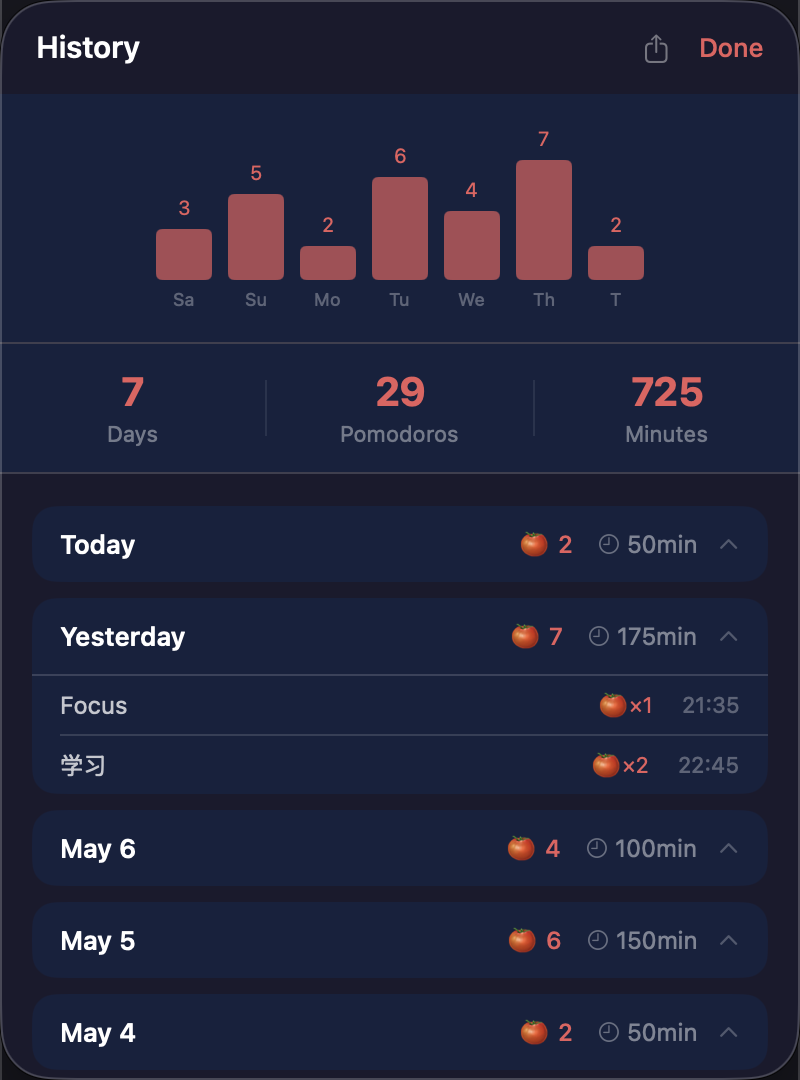
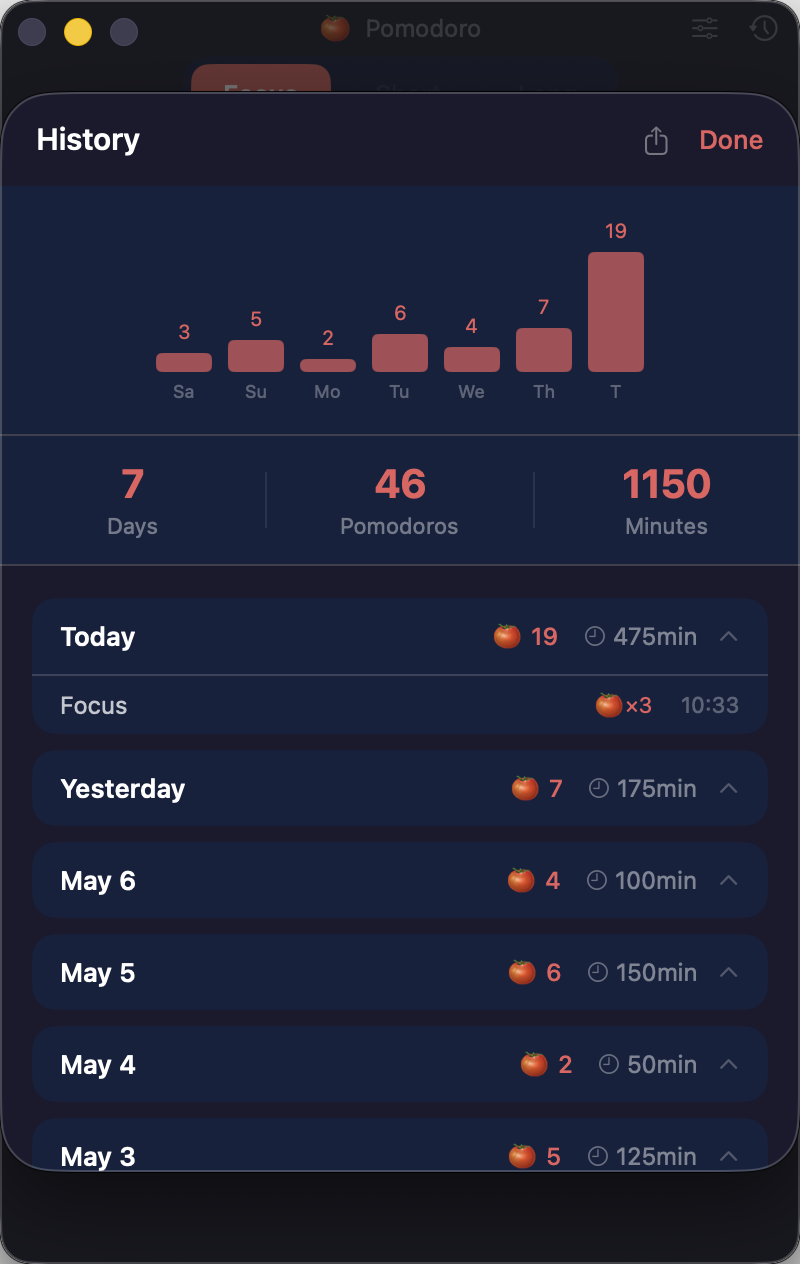
Redesign Settings UI, add single-shortcut DND integration, update docs
- Settings: grouped TIMER/PREFERENCES sections, more compact layout (380×500),
  Install Shortcuts styled as pill button
- DND: merge 3 shortcuts into one via file-based IPC (/tmp/pomo_dnd_action)
- README: add DND setup section, update features list and tech stack
- Screenshots: refresh all three with new Settings UI

diff --git a/Sources/PomodoroApp/SettingsView.swift b/Sources/PomodoroApp/SettingsView.swift
@@ -10,26 +10,39 @@ struct SettingsView: View {
             VStack(spacing: 0) {
                 header
                 Divider().background(Color.white.opacity(0.07))
-                VStack(spacing: 10) {
-                    durationRow(label: vm.s_workDuration,  icon: "🍅",
-                                value: $vm.workMins,  range: 1...90)
-                    durationRow(label: vm.s_shortDuration, icon: "☕",
-                                value: $vm.shortMins, range: 1...30)
-                    durationRow(label: vm.s_longDuration,  icon: "🌿",
-                                value: $vm.longMins,  range: 1...60)
-                    languageRow
-                    autoStartRow
-                    clearTaskRow
-                    soundRow
-                    dndRow
+                ScrollView(showsIndicators: false) {
+                    VStack(alignment: .leading, spacing: 20) {
+                        section(title: vm.s_sectionTimer) {
+                            durationRow(label: vm.s_workDuration,  icon: "🍅",
+                                        value: $vm.workMins,  range: 1...90)
+                            rowDivider
+                            durationRow(label: vm.s_shortDuration, icon: "☕",
+                                        value: $vm.shortMins, range: 1...30)
+                            rowDivider
+                            durationRow(label: vm.s_longDuration,  icon: "🌿",
+                                        value: $vm.longMins,  range: 1...60)
+                        }
+                        section(title: vm.s_sectionPrefs) {
+                            languageRow
+                            rowDivider
+                            toggleRow(icon: "⏭", label: vm.s_autoStart,    binding: $vm.autoStart)
+                            rowDivider
+                            toggleRow(icon: "✅", label: vm.s_clearTask,    binding: $vm.clearTaskOnComplete)
+                            rowDivider
+                            toggleRow(icon: "🔔", label: vm.s_sound,        binding: $vm.soundEnabled)
+                            rowDivider
+                            dndRow
+                        }
+                    }
+                    .padding(16)
                 }
-                .padding(16)
-                Spacer()
             }
         }
         .preferredColorScheme(.dark)
-        .frame(width: 400, height: 530)
+        .frame(width: 380, height: 500)
     }
+
+    // MARK: - Header
 
     private var header: some View {
         HStack {
@@ -43,13 +56,37 @@ struct SettingsView: View {
                 .foregroundColor(.workAccent)
         }
         .padding(.horizontal, 18)
-        .padding(.vertical, 14)
+        .padding(.vertical, 12)
     }
+
+    // MARK: - Section wrapper
+
+    private func section<Content: View>(title: String, @ViewBuilder content: () -> Content) -> some View {
+        VStack(alignment: .leading, spacing: 0) {
+            Text(title)
+                .font(.system(size: 10, weight: .semibold))
+                .foregroundColor(.white.opacity(0.3))
+                .padding(.horizontal, 4)
+                .padding(.bottom, 6)
+            VStack(spacing: 0) {
+                content()
+            }
+            .background(Color.appCard.cornerRadius(12))
+        }
+    }
+
+    private var rowDivider: some View {
+        Divider()
+            .background(Color.white.opacity(0.06))
+            .padding(.leading, 40)
+    }
+
+    // MARK: - Row types
 
     private func durationRow(label: String, icon: String,
                               value: Binding<Int>, range: ClosedRange<Int>) -> some View {
         HStack {
-            Text(icon).font(.system(size: 15))
+            Text(icon).font(.system(size: 14)).frame(width: 24)
             Text(label)
                 .font(.system(size: 13))
                 .foregroundColor(.white.opacity(0.85))
@@ -59,23 +96,38 @@ struct SettingsView: View {
                     if value.wrappedValue > range.lowerBound { value.wrappedValue -= 1 }
                 }
                 Text("\(value.wrappedValue) \(vm.s_minutes)")
-                    .font(.system(size: 13, weight: .medium))
+                    .font(.system(size: 12, weight: .medium))
                     .foregroundColor(.white)
-                    .frame(width: 68)
+                    .frame(width: 58)
                 stepButton(icon: "plus") {
                     if value.wrappedValue < range.upperBound { value.wrappedValue += 1 }
                 }
             }
-            .background(Color.appCard.cornerRadius(9))
+            .background(Color.white.opacity(0.07).cornerRadius(8))
         }
         .padding(.horizontal, 14)
-        .padding(.vertical, 10)
-        .background(Color.appCard.opacity(0.5).cornerRadius(10))
+        .padding(.vertical, 9)
+    }
+
+    private func toggleRow(icon: String, label: String, binding: Binding<Bool>) -> some View {
+        HStack {
+            Text(icon).font(.system(size: 14)).frame(width: 24)
+            Text(label)
+                .font(.system(size: 13))
+                .foregroundColor(.white.opacity(0.85))
+            Spacer()
+            Toggle("", isOn: binding)
+                .toggleStyle(.switch)
+                .labelsHidden()
+                .scaleEffect(0.85)
+        }
+        .padding(.horizontal, 14)
+        .padding(.vertical, 9)
     }
 
     private var languageRow: some View {
         HStack {
-            Text("🌐").font(.system(size: 15))
+            Text("🌐").font(.system(size: 14)).frame(width: 24)
             Text(vm.s_language)
                 .font(.system(size: 13))
                 .foregroundColor(.white.opacity(0.85))
@@ -86,65 +138,16 @@ struct SettingsView: View {
                 }
             }
             .pickerStyle(.segmented)
-            .frame(width: 130)
+            .frame(width: 120)
         }
         .padding(.horizontal, 14)
-        .padding(.vertical, 10)
-        .background(Color.appCard.opacity(0.5).cornerRadius(10))
-    }
-
-    private var autoStartRow: some View {
-        HStack {
-            Text("⏭").font(.system(size: 15))
-            Text(vm.s_autoStart)
-                .font(.system(size: 13))
-                .foregroundColor(.white.opacity(0.85))
-            Spacer()
-            Toggle("", isOn: $vm.autoStart)
-                .toggleStyle(.switch)
-                .labelsHidden()
-        }
-        .padding(.horizontal, 14)
-        .padding(.vertical, 10)
-        .background(Color.appCard.opacity(0.5).cornerRadius(10))
-    }
-
-    private var clearTaskRow: some View {
-        HStack {
-            Text("✅").font(.system(size: 15))
-            Text(vm.s_clearTask)
-                .font(.system(size: 13))
-                .foregroundColor(.white.opacity(0.85))
-            Spacer()
-            Toggle("", isOn: $vm.clearTaskOnComplete)
-                .toggleStyle(.switch)
-                .labelsHidden()
-        }
-        .padding(.horizontal, 14)
-        .padding(.vertical, 10)
-        .background(Color.appCard.opacity(0.5).cornerRadius(10))
-    }
-
-    private var soundRow: some View {
-        HStack {
-            Text("🔔").font(.system(size: 15))
-            Text(vm.s_sound)
-                .font(.system(size: 13))
-                .foregroundColor(.white.opacity(0.85))
-            Spacer()
-            Toggle("", isOn: $vm.soundEnabled)
-                .toggleStyle(.switch)
-                .labelsHidden()
-        }
-        .padding(.horizontal, 14)
-        .padding(.vertical, 10)
-        .background(Color.appCard.opacity(0.5).cornerRadius(10))
+        .padding(.vertical, 9)
     }
 
     private var dndRow: some View {
-        VStack(alignment: .leading, spacing: 6) {
+        VStack(alignment: .leading, spacing: 0) {
             HStack {
-                Text("🌙").font(.system(size: 15))
+                Text("🌙").font(.system(size: 14)).frame(width: 24)
                 Text(vm.s_dndIntegration)
                     .font(.system(size: 13))
                     .foregroundColor(.white.opacity(0.85))
@@ -152,26 +155,39 @@ struct SettingsView: View {
                 Toggle("", isOn: $vm.dndIntegrationEnabled)
                     .toggleStyle(.switch)
                     .labelsHidden()
+                    .scaleEffect(0.85)
             }
+            .padding(.horizontal, 14)
+            .padding(.vertical, 9)
+
             if vm.dndIntegrationEnabled {
-                Text(vm.s_dndSetup)
-                    .font(.system(size: 10))
-                    .foregroundColor(.white.opacity(0.35))
-                    .fixedSize(horizontal: false, vertical: true)
+                HStack(spacing: 10) {
+                    Button(vm.s_dndInstall) { vm.installDNDShortcuts() }
+                        .buttonStyle(.plain)
+                        .font(.system(size: 11, weight: .medium))
+                        .foregroundColor(.workAccent)
+                        .padding(.horizontal, 9)
+                        .padding(.vertical, 4)
+                        .background(Color.workAccent.opacity(0.12).cornerRadius(6))
+                        .overlay(RoundedRectangle(cornerRadius: 6)
+                            .stroke(Color.workAccent.opacity(0.3), lineWidth: 0.5))
+                    Text(vm.s_dndInstallHint)
+                        .font(.system(size: 10))
+                        .foregroundColor(.white.opacity(0.3))
+                }
+                .padding(.horizontal, 14)
+                .padding(.bottom, 10)
             }
         }
-        .padding(.horizontal, 14)
-        .padding(.vertical, 10)
-        .background(Color.appCard.opacity(0.5).cornerRadius(10))
         .animation(.easeInOut(duration: 0.2), value: vm.dndIntegrationEnabled)
     }
 
     private func stepButton(icon: String, action: @escaping () -> Void) -> some View {
         Button(action: action) {
             Image(systemName: icon)
-                .font(.system(size: 12, weight: .semibold))
-                .foregroundColor(.white.opacity(0.6))
-                .frame(width: 30, height: 30)
+                .font(.system(size: 11, weight: .semibold))
+                .foregroundColor(.white.opacity(0.55))
+                .frame(width: 28, height: 28)
         }
         .buttonStyle(.plain)
     }

diff --git a/Sources/PomodoroApp/TimerViewModel.swift b/Sources/PomodoroApp/TimerViewModel.swift
@@ -176,11 +176,16 @@ class TimerViewModel: ObservableObject {
     var s_clearConfirm:    String { zh("确认清空今日记录？", en: "Clear all today's records?") }
     var s_clearTask:       String { zh("完成后清空任务",   en: "Clear task on complete") }
     var s_sound:           String { zh("声音提示",        en: "Sound") }
+    var s_sectionTimer:    String { zh("时长",            en: "TIMER") }
+    var s_sectionPrefs:    String { zh("偏好设置",        en: "PREFERENCES") }
     var s_dndIntegration:  String { zh("勿扰模式联动",    en: "Do Not Disturb Sync") }
     var s_dndSetup:        String { zh(
         "需在「快捷指令」中创建以下三个快捷指令：\nPomodoro DND On — 开启勿扰\nPomodoro DND Off — 关闭勿扰\nPomodoro DND Check — 勿扰已开时输出 1，否则输出 0",
         en: "Create three shortcuts in the Shortcuts app:\nPomodoro DND On — enable DND\nPomodoro DND Off — disable DND\nPomodoro DND Check — output \"1\" if DND is on, \"0\" if off"
     ) }
+    var s_dndInstall:      String { zh("一键安装快捷指令", en: "Install Shortcuts") }
+    var s_dndInstallHint:  String { zh("将在浏览器中打开，点击「添加快捷指令」即可",
+                                        en: "Opens in browser — click \"Add Shortcut\"") }
 
     init() {
         loadDurations()
@@ -234,7 +239,7 @@ class TimerViewModel: ObservableObject {
         endDate = Date().addingTimeInterval(Double(remaining))
         if dndIntegrationEnabled, mode == .work, !appActivatedDND {
             if !isFocusCurrentlyActive() {
-                runShortcut("Pomodoro DND On")
+                runDND("on")
                 appActivatedDND = true
             }
         }
@@ -258,7 +263,7 @@ class TimerViewModel: ObservableObject {
         timer?.invalidate()
         timer = nil
         if appActivatedDND {
-            runShortcut("Pomodoro DND Off")
+            runDND("off")
             appActivatedDND = false
         }
     }
@@ -319,27 +324,35 @@ class TimerViewModel: ObservableObject {
 
     // MARK: - DND integration
 
+    func installDNDShortcuts() {
+        guard let url = URL(string: "https://www.icloud.com/shortcuts/3a246b1360ad414395de8a7a8816f3d6") else { return }
+        NSWorkspace.shared.open(url)
+    }
+
     private func isFocusCurrentlyActive() -> Bool {
-        let tmpPath = "/tmp/pomo_dnd_check_\(Int(Date().timeIntervalSince1970))"
+        let actionPath = "/tmp/pomo_dnd_action"
+        let outputPath = "/tmp/pomo_dnd_result_\(Int(Date().timeIntervalSince1970))"
+        try? "check".write(toFile: actionPath, atomically: true, encoding: .utf8)
         let task = Process()
         task.executableURL = URL(fileURLWithPath: "/usr/bin/shortcuts")
-        task.arguments = ["run", "Pomodoro DND Check",
-                          "--output-path", tmpPath,
+        task.arguments = ["run", "Pomodoro DND",
+                          "--output-path", outputPath,
                           "--output-type", "public.plain-text"]
         task.standardOutput = FileHandle.nullDevice
         task.standardError  = FileHandle.nullDevice
         try? task.run()
         task.waitUntilExit()
-        let result = (try? String(contentsOfFile: tmpPath, encoding: .utf8))?
+        let result = (try? String(contentsOfFile: outputPath, encoding: .utf8))?
             .trimmingCharacters(in: .whitespacesAndNewlines)
-        try? FileManager.default.removeItem(atPath: tmpPath)
+        try? FileManager.default.removeItem(atPath: outputPath)
         return result == "1"
     }
 
-    private func runShortcut(_ name: String) {
+    private func runDND(_ action: String) {
+        try? action.write(toFile: "/tmp/pomo_dnd_action", atomically: true, encoding: .utf8)
         let task = Process()
         task.executableURL = URL(fileURLWithPath: "/usr/bin/shortcuts")
-        task.arguments = ["run", name]
+        task.arguments = ["run", "Pomodoro DND"]
         task.standardOutput = FileHandle.nullDevice
         task.standardError  = FileHandle.nullDevice
         try? task.run()

diff --git a/README.md b/README.md
@@ -9,6 +9,7 @@ A minimal macOS Pomodoro timer built with Swift + SwiftUI.
 - **25 / 5 / 15 min** work and break cycles (fully customizable)
 - **Menu bar** — live countdown always visible, control without opening the main window
 - **Task tracking** — label what you're working on; autocompletes from recent tasks
+- **Do Not Disturb sync** — automatically enables DND when a focus session starts, disables it on break; respects pre-existing DND state
 - **Auto-start** — optionally start the next session automatically after each transition
 - **Accurate timer** — computed from wall-clock time, immune to system load and display sleep
 - **Session continuity** — the 4-session break cycle (3 short → 1 long) persists across app restarts
@@ -24,7 +25,7 @@ A minimal macOS Pomodoro timer built with Swift + SwiftUI.
 <div align="center">
   <img src="screenshots/main.png" width="260" alt="Main window" />
   &nbsp;&nbsp;
-  <img src="screenshots/settings.png" width="260" alt="Settings with Auto-start" />
+  <img src="screenshots/settings.png" width="260" alt="Settings" />
   &nbsp;&nbsp;
   <img src="screenshots/history.png" width="260" alt="History with weekly chart" />
 </div>
@@ -47,24 +48,29 @@ This builds a release binary, installs it to `/Applications/Pomodoro.app`, and l
 bash make_dmg.sh
 ```
 
-Produces `Pomodoro-1.0.dmg` with an ad-hoc signature. Recipients may need to right-click → Open the first time to bypass Gatekeeper.
+Produces `Pomodoro-1.3.dmg` with an ad-hoc signature. Recipients may need to right-click → Open the first time to bypass Gatekeeper.
+
+## Do Not Disturb Setup
+
+Enable **Do Not Disturb Sync** in Settings, then click **Install Shortcuts** to install the required Shortcut in one click. The app will automatically enable DND when a focus session starts and disable it when a break begins. If DND was already active before the session, the app leaves it untouched.
 
 ## Project Structure
 
 ```
 Sources/PomodoroApp/
 ├── PomodoroApp.swift      # App entry point, menu bar extra
-├── TimerViewModel.swift   # Timer logic, persistence, stats
+├── TimerViewModel.swift   # Timer logic, persistence, stats, DND integration
 ├── ContentView.swift      # Main window UI
 ├── MenuBarContent.swift   # Menu bar popover
 ├── HistoryView.swift      # Multi-day history sheet
-└── SettingsView.swift     # Duration settings sheet
+├── SettingsView.swift     # Settings sheet
+└── Theme.swift            # Shared Color constants
 ```
 
 ## Tech
 
 - SwiftUI + AppKit on macOS 13+
 - `UserDefaults` for per-day persistence
-- `NSSound` for audio alerts
-- `osascript` for system notifications
+- `NSSound` + `UNUserNotificationCenter` for audio and system notifications
+- `/usr/bin/shortcuts` CLI for Do Not Disturb integration
 - Swift Package Manager (no dependencies)